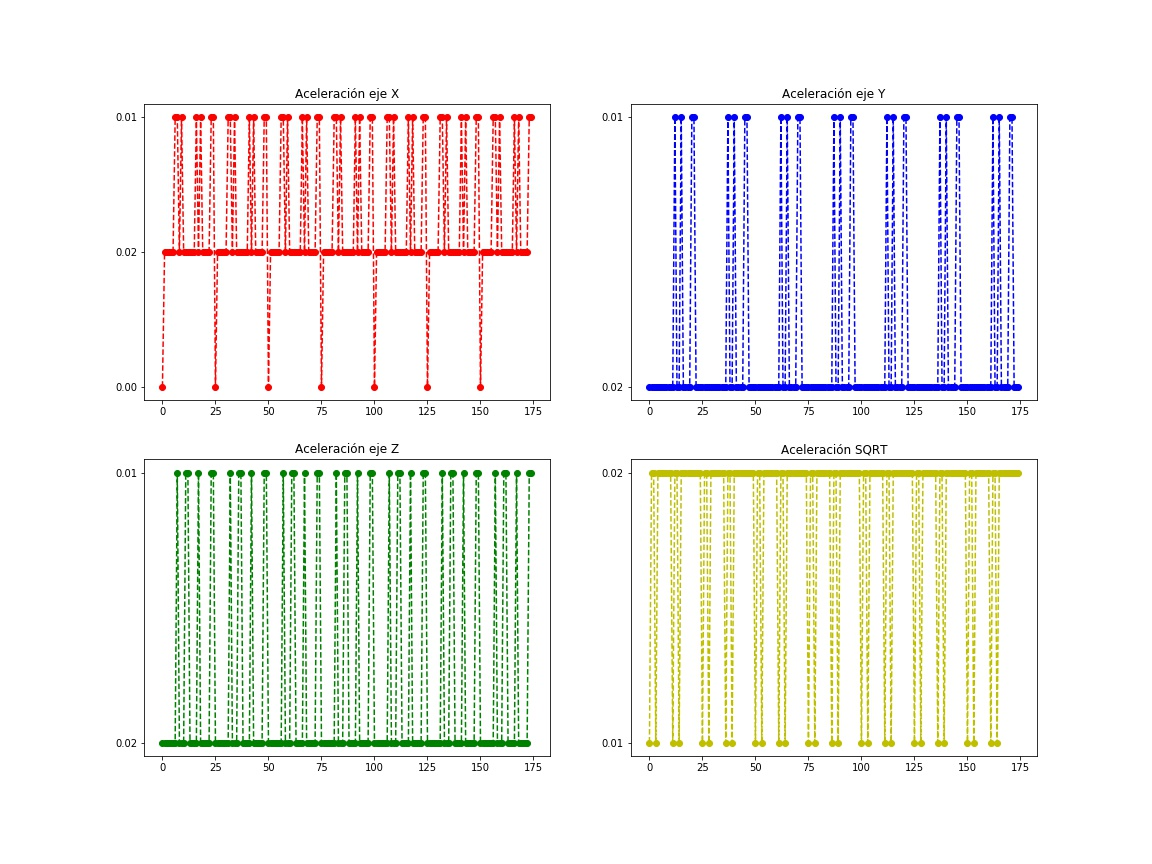
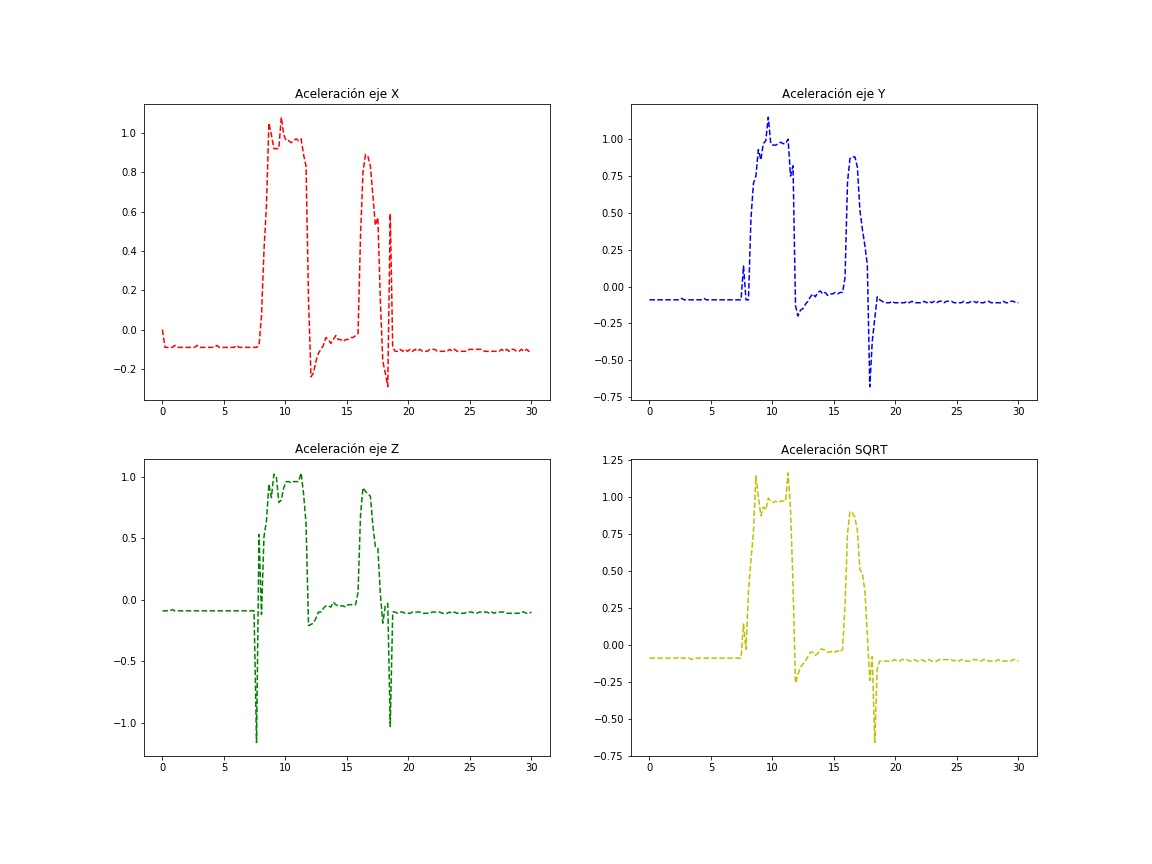
Practica 3 corregida

diff --git a/Practica 3/P3_3/P3_3.py b/Practica 3/P3_3/P3_3.py
@@ -1,15 +1,14 @@
 import serial
 import matplotlib.pyplot as plt
+import numpy as geek
 
-
-a = []
 x = []
 y = []
 z = []
 sqrt = []
 
 def main():
-    
+    a = []  
     print("Comienza el programa")
     try:
         ser = serial.Serial("COM7", 115200) #Abro el puerto serie
@@ -20,9 +19,11 @@ def main():
                 if cont < 101: #para conseguir cada 5 segundos
                     acel = ser.readline().decode('ascii') #Leo una linea completa y decodifico para poder quitar los saltos de linea
                     acel = acel.replace("\n","") #quito salto de linea
-                    acel = acel.replace("\r","") #reemplazo retorno de carro 
+                    acel = acel.replace("\r","") #reemplazo retorno de carro
                     with open ("datos.txt","a") as f:
                         f.write(acel)
+                    if(cont != 0):
+                        acel = float(acel)
                     a.append(acel)
                     cont = cont + 1
                 else: 
@@ -34,23 +35,26 @@ def main():
                         y.append(a[j+2])
                         z.append(a[j+3])
                         sqrt.append(a[j+4])
+                    tamaño  = 5*geek.size(x)/25;
+                    tiempo = geek.linspace(0,tamaño,geek.size(x)) # Creo eje de tiempos para plotear frente a los 
+                                                                  #valores de aceleración
                     plt.figure(figsize =(16,12)) #Pongo tamaño a la figura
                     plt.subplot(2,2,1) #Creación de primera figura
-                    plt.plot(x,'ro--') #ro-- indica que pinto en rojo con puntos y a rayas
+                    plt.plot(tiempo, x,'r--') #r-- indica que pinto en rojo y a rayas
                     plt.title("Aceleración eje X") #Pongo titulo a la grafica
                     plt.subplot(2,2,2) #Creación segunda figura
-                    plt.plot(y,'bo--') #bo-- indica que pinto en azul con puntos y a rayas
+                    plt.plot(tiempo, y,'b--') #b-- indica que pinto en azul y a rayas
                     plt.title("Aceleración eje Y") #Pongo titulo a la grafica
                     plt.subplot(2,2,3) #Creacion tercera figura
-                    plt.plot(z,'go--') #go-- indica que pinto en verde con puntos y a rayas
+                    plt.plot(tiempo, z,'g--') #g-- indica que pinto en verde y a rayas
                     plt.title("Aceleración eje Z") #Pongo titulo a la grafica
                     plt.subplot(2,2,4) #Creación cuarta figura
-                    plt.plot(sqrt,'yo--') #yo-- indica que pinto en amarillo con puntos y a rayas
+                    plt.plot(tiempo, sqrt,'y--') #y-- indica que pinto en amarillo y a rayas
                     plt.title("Aceleración SQRT") #Pongo titulo a la grafica
                     
                     plt.savefig("Aceleración.jpg") #Me lo guardo en un fichero para poder verlo
                     plt.show() #La muestro
-                        
+                    a = []  
             except serial.SerialException: #En caso de no poder acceder a leer los datos del puerto seria saltará una excepción
                 print("No se pueden leer los datos")     
                 ser.close()#Cerraremos el puerto serie
